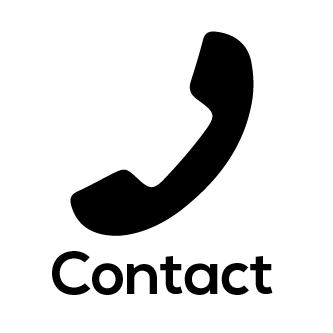
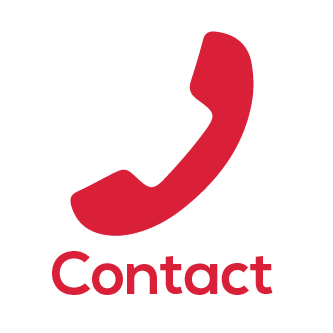
more changes

Changed region(s): [[0.2102, 0.0901, 0.7808, 0.7207], [0.1502, 0.7508, 0.8408, 0.9009]]

diff --git a/src/components/Form.js b/src/components/Form.js
@@ -1,4 +1,5 @@
 import React, { useState } from 'react'
+import Loader from 'react-loader-spinner'
 
 const Form = () => {
 
@@ -8,6 +9,7 @@ const Form = () => {
         crime: "",
         report: "",
     });
+    const [loadData, setLoadData] = useState(false);
 
     const { fullname, number, crime, report } = data
 
@@ -21,18 +23,20 @@ const Form = () => {
     const handleSubmit = async(e) =>{
         e.preventDefault();
         try {
+            setLoadData(true)
             const response = await fetch('https://v1.nocodeapi.com/reddot/google_sheets/hRDrZjFMqmgZXVZO?tabId=Sheet1', {
                 method: 'POST',
                 headers: {
                     'Content-Type': 'application/json'
                 },
-                body: JSON.stringify([[fullname, number, crime, report, new Date().toLocaleString]])
+                body: JSON.stringify([[fullname, number, crime, report, new Date().toLocaleString()]])
             })
             await response.json()
             setData({...data, fullname:'', number:'', crime:'', report:''})
         } catch (error) {
             console.log(error)
         }
+        setLoadData(false)
     }
 
     return (
@@ -50,7 +54,10 @@ const Form = () => {
                 <label for="report">Report</label>
                 <textarea placeholder="Describe the crime..." value={report} onChange={handleChange} name="report"/>
             
-                <input type="submit" value="Submit Report" />
+                {loadData ? 
+                <div style={{textAlign: 'center'}}><Loader type="Circles" color="#00BFFF" height={40} width={40}/></div> 
+                :
+                <input type="submit" value="Submit Report" disabled={fullname==="" || number==="" || crime==="" || report===""}/>}
             </form>
         </>
     )

diff --git a/src/components/main.css b/src/components/main.css
@@ -72,7 +72,7 @@
     font-family: 'Gill Sans', 'Gill Sans MT', Calibri, 'Trebuchet MS', sans-serif;
 }
 .btn:hover{
-    background-color: red;
+    background-color: #d92038;
     color: #ffffff;
     transition: 0.4s ease all;
 }
@@ -394,7 +394,7 @@ textarea {
     .nav-dropdown ul li a{
         text-decoration: none;
         font-size: 2rem;
-        font-family: 'Roboto Condensed', sans-serif;
+        font-family: 'Raleway', sans-serif;
         font-weight: bold;
         color: black;
     }
@@ -414,7 +414,7 @@ textarea {
         font-size: 1.3rem;
     }
     .btn-dropdown:hover{
-        background-color: red;
+        background-color: #d92038;
         color: #ffffff;
         transition: 0.4s ease all;
     }
